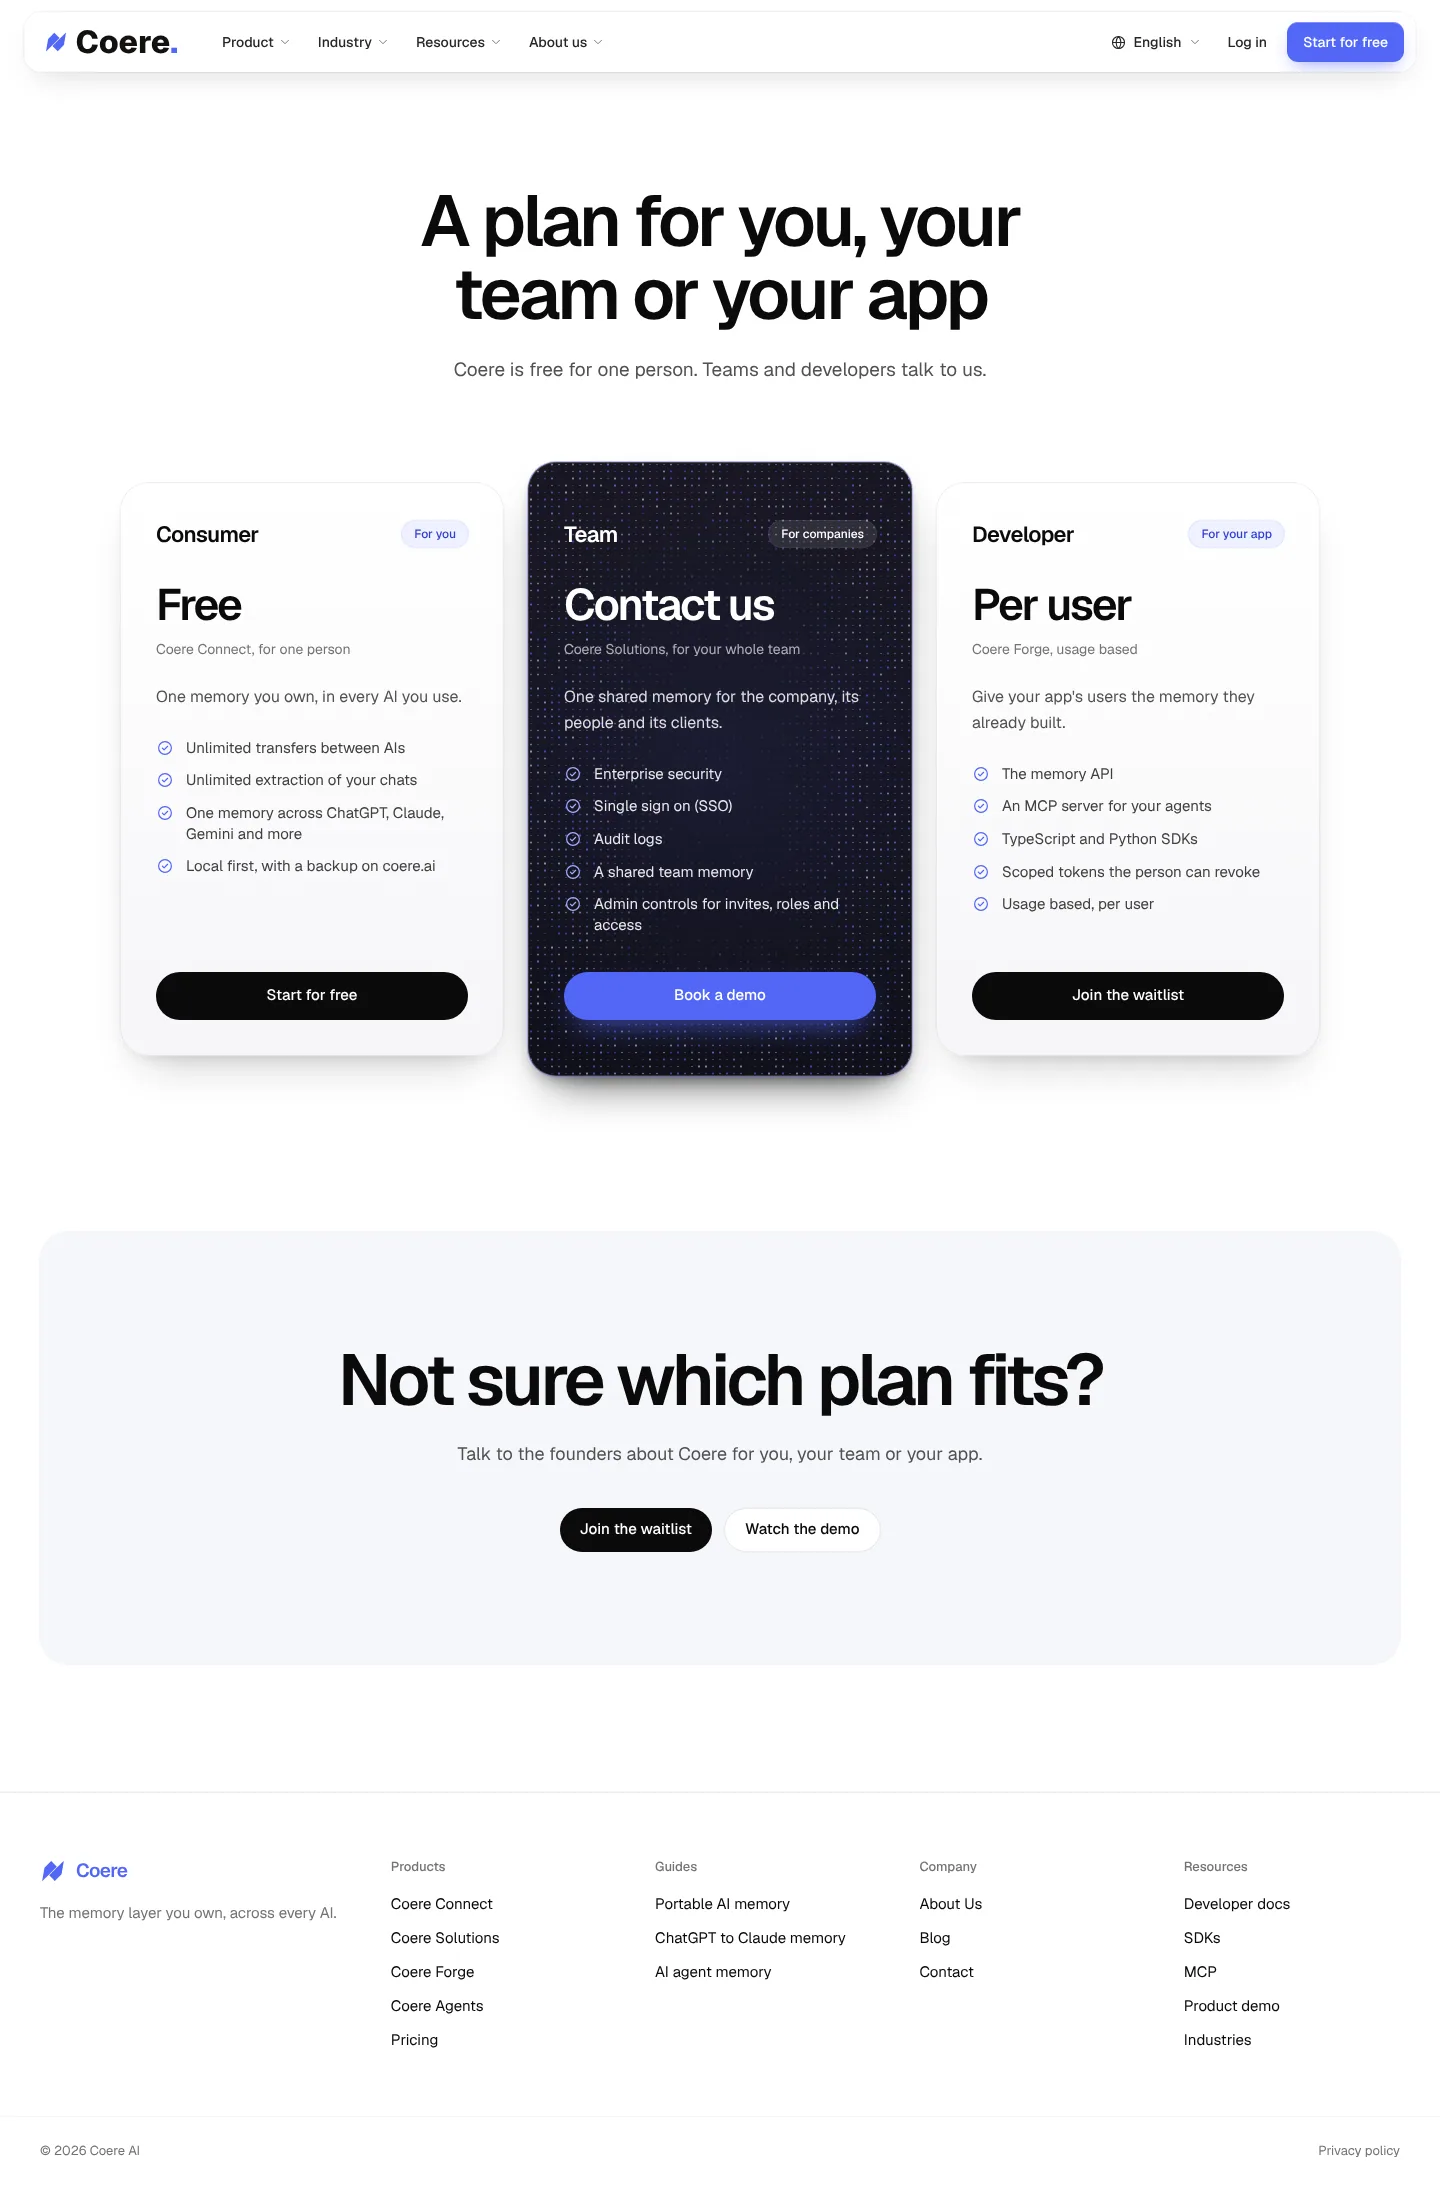
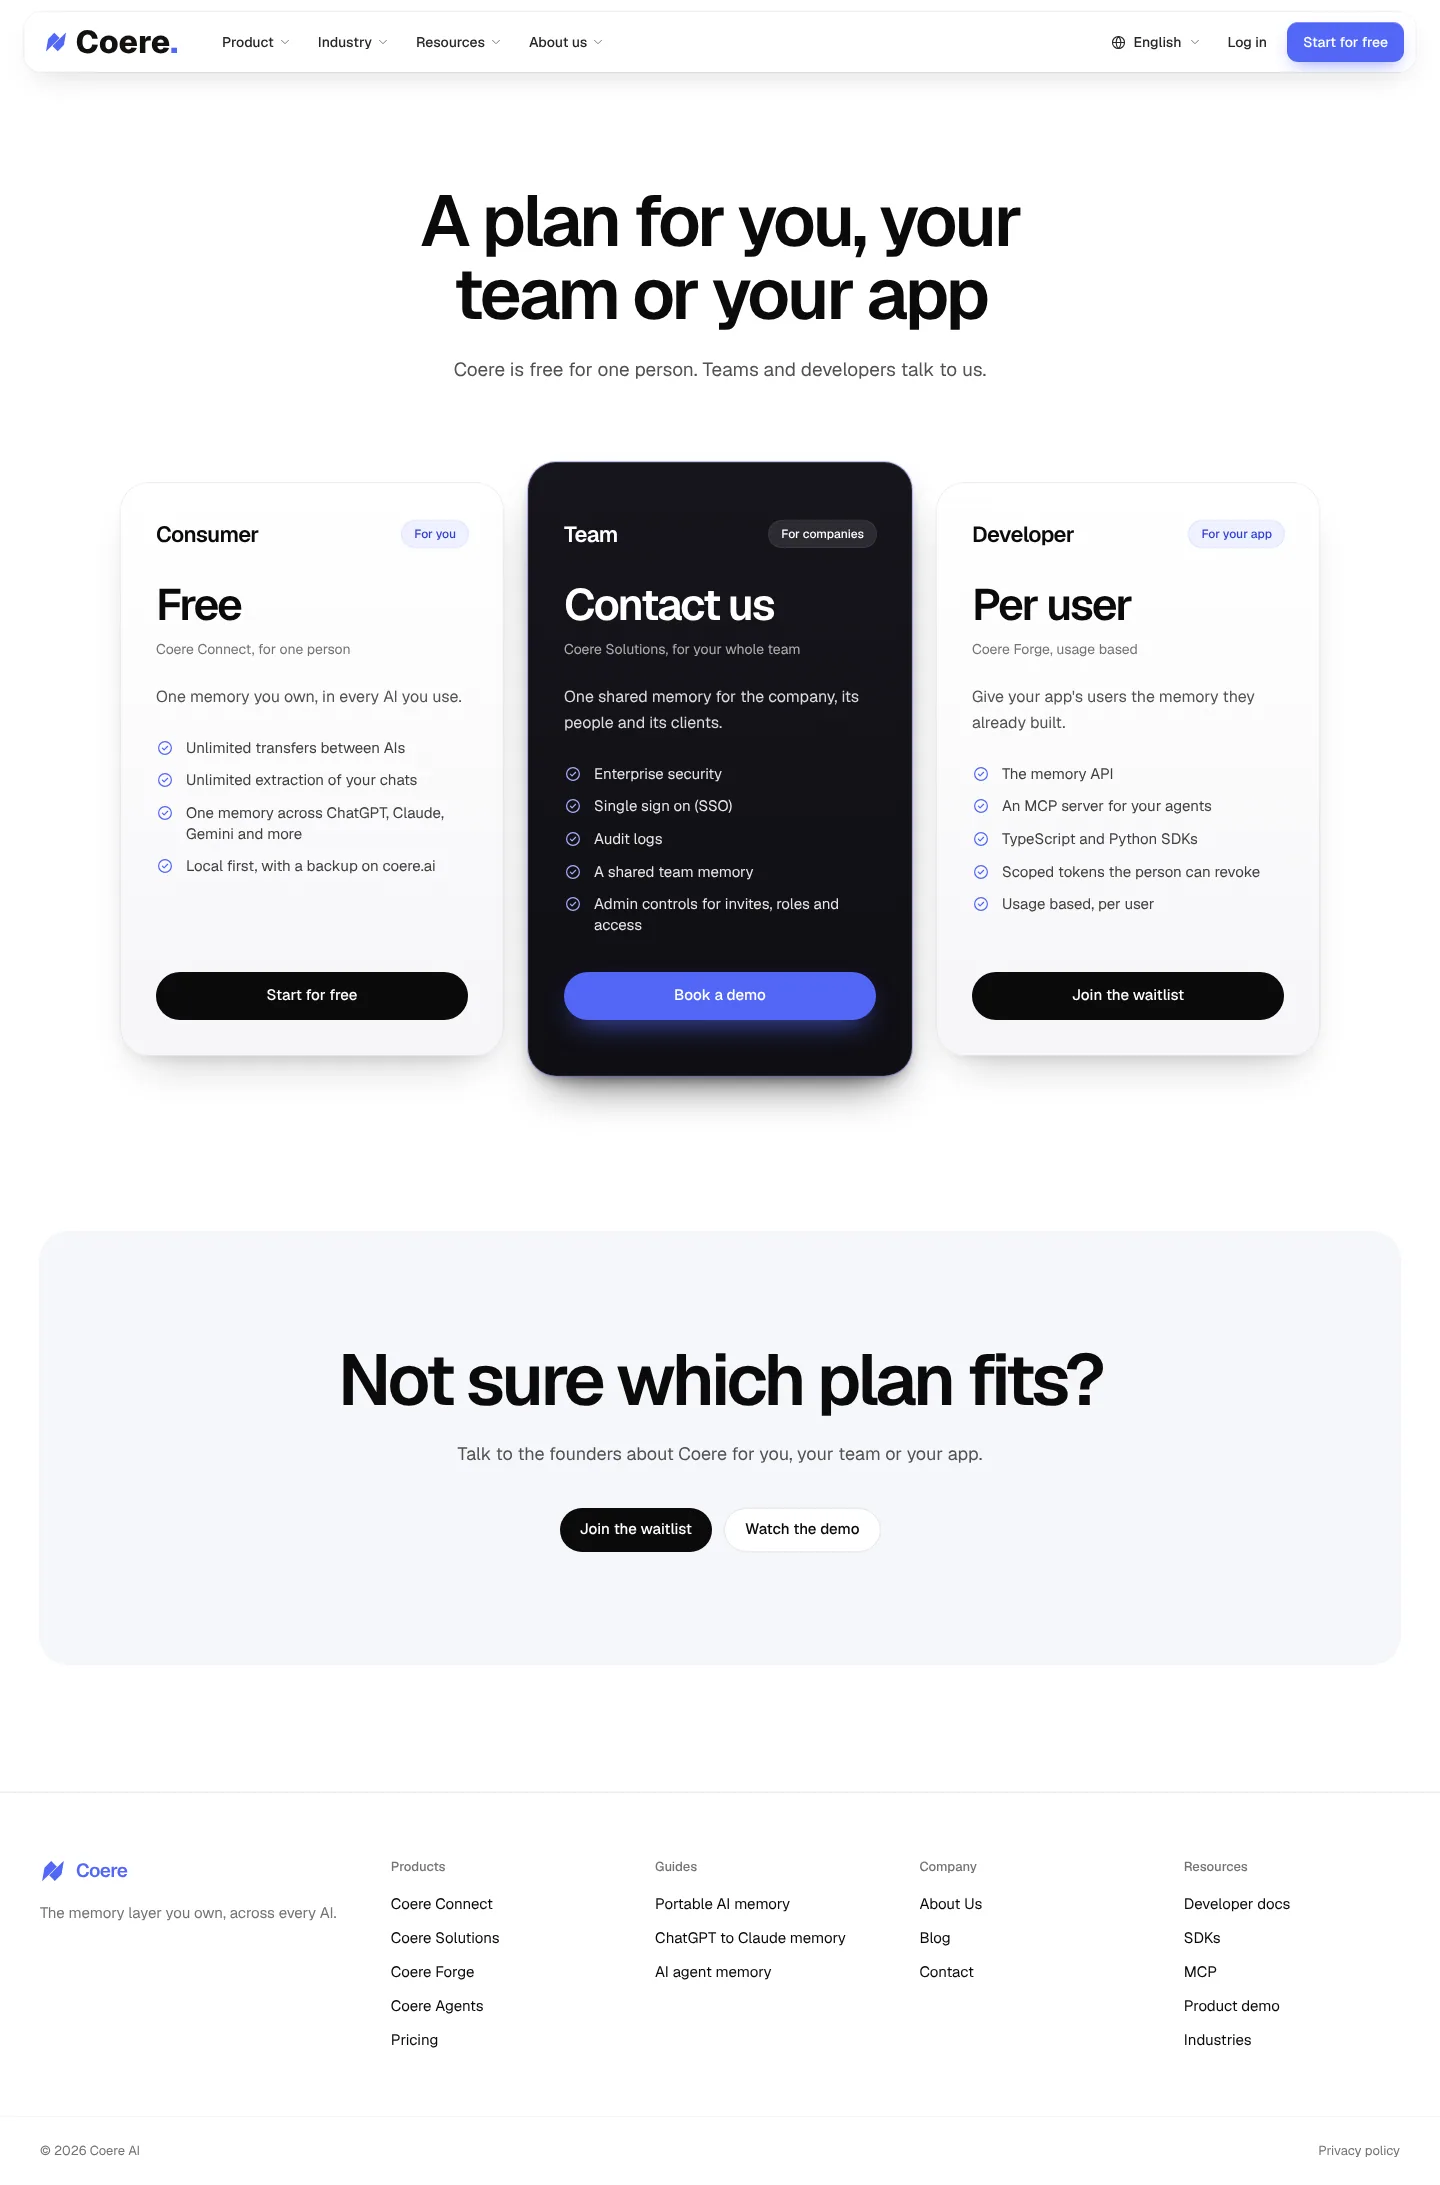
Remove the comparison table and calm the Team plan card
The owner asked to remove the "One memory that knows you everywhere"
table from the site, so it is gone from the home page and the portable
memory guide, with its data and pictures. The Team plan's pixels now
light only on hover, like the other two plans.

Claude-Session: https://claude.ai/code/session_01Ur6uqNCXa3ecJ23BnM9D9o

Changed region(s): [[0.4688, 0.3112, 0.5312, 0.3735], [0.375, 0.3112, 0.4375, 0.4046], [0.5625, 0.3112, 0.5938, 0.3735]]

diff --git a/src/app/(site)/page.tsx b/src/app/(site)/page.tsx
@@ -5,7 +5,6 @@ import { homeFaqs } from "@/site/content/faqs";
 import { homeSeo } from "@/site/content/seo";
 import { BlogSection } from "@/site/home/blog-section";
 import { ClosingCta } from "@/site/home/closing-cta";
-import { CompareTable } from "@/site/home/compare-table";
 import { ConnectSection } from "@/site/home/connect-section";
 import { DemoSection } from "@/site/home/demo-section";
 import { ForgeSection } from "@/site/home/forge-section";
@@ -21,7 +20,7 @@ export const metadata: Metadata = pageMetadata({ ...homeSeo, path: "/" });
 /**
  * The home page: the hero with its three pictures, every AI Coere works
  * with, the full demo, what Coere solves, one part per product, each with
- * its own layout and a way to its page, how Coere compares, the plans,
+ * its own layout and a way to its page, the plans,
  * the questions people ask first, the newest posts and the last word.
  */
 export default function HomePage() {
@@ -36,7 +35,6 @@ export default function HomePage() {
       <ConnectSection />
       <SolutionsSection />
       <ForgeSection />
-      <CompareTable />
       <PricingSection />
       <FaqSection faqs={homeFaqs} title="What people ask about Coere" look="soft" />
       <BlogSection />

diff --git a/src/app/(site)/portable-ai-memory/page.tsx b/src/app/(site)/portable-ai-memory/page.tsx
@@ -8,7 +8,6 @@ import { guideBySlug, portable } from "@/site/content/guides";
 import { contactHref, contactLabel } from "@/site/content/navigation";
 import { AnswerSection, RelatedSection, TodaySection, WorkflowSection } from "@/site/guides/guide-blocks";
 import { ClosingCta } from "@/site/home/closing-cta";
-import { CompareTable } from "@/site/home/compare-table";
 import { AiTiles } from "@/site/products/ai-tiles";
 import { guideGraph, JsonLd } from "@/site/seo/json-ld";
 import { FilmFrame } from "@/site/ui/film-frame";
@@ -50,7 +49,6 @@ export default function PortableAiMemoryPage() {
         background={backgrounds.ribbons}
         link={{ href: "/products/connect", label: "Explore Coere Connect" }}
       />
-      <CompareTable />
       <TodaySection title="What Coere supports today" items={portable.today} status="Coere is in pre-launch, and the waitlist is open. Here is what Coere Connect does now, as the films on this site show it." />
       <FaqSection faqs={portable.faqs} title="Portable AI memory, answered" />
       <RelatedSection

diff --git a/src/site/pricing/plan-card.tsx b/src/site/pricing/plan-card.tsx
@@ -12,8 +12,8 @@ const DARK = ["#7f8bfa", "#5267f7", "#c6cfff"];
 /**
  * One plan on a PixelCard. The pixels light up from the edges on hover,
  * and fade toward the middle, so the words stay readable over them. The
- * featured plan sits on near black with its pixels always on, so it stands
- * out from the two beside it. The card itself takes no focus; its button
+ * featured plan sits on near black, so it stands out from the two beside
+ * it, and its pixels light on hover like the others. The card itself takes no focus; its button
  * does, and lights the pixels too.
  */
 export function PlanCard({ plan }: { plan: Plan }) {
@@ -30,7 +30,7 @@ export function PlanCard({ plan }: { plan: Plan }) {
       speed={featured ? 30 : 25}
       fade={0.85}
       opacity={featured ? 0.75 : 0.9}
-      trigger={featured ? "always" : "hover"}
+      trigger="hover"
       glowColor="#5267f7"
       radius={28}
       noFocus

diff --git a/src/lib/sections.ts b/src/lib/sections.ts
@@ -27,7 +27,6 @@ export const SECTIONS: readonly SectionMeta[] = [
   { id: "connect", label: "Coere Connect", blurb: "One memory across every AI." },
   { id: "solutions", label: "Coere Solutions", blurb: "One memory for the whole company." },
   { id: "forge", label: "Coere Forge", blurb: "Memory for the apps developers build." },
-  { id: "compare", label: "How Coere compares", blurb: "Coere against the memory each AI keeps." },
 ] as const;
 
 /**

diff --git a/docs/screenshots/site/README.md b/docs/screenshots/site/README.md
@@ -19,7 +19,7 @@ Maya Collins, made up for these pictures.
 | <img src="home-solves.webp" alt="Every AI starts from zero, with the switch on Without Coere: three drawn chats where context is lost, switching AI to AI, a new chat and one long chat" /><br /><sub>What Coere solves on Without Coere, each scene on the still it settles on</sub> | <img src="home-solves-coere.webp" alt="Memory that follows the person, not the app, with the switch on With Coere: the same three chats, each with Coere's line over the box saying what it added" /><br /><sub>The same scenes on With Coere, each with the line Coere adds</sub> |
 | <img src="home-demo.webp" alt="The product film in its frame, on Cori asking which AI chats you use, with the chapters Onboarding, Import, Memory and Features under it" /><br /><sub>The product film, with its chapters</sub> | <img src="home-connect.webp" alt="One memory across every AI, with a ChatGPT window beside four features: Context added as you type, Your memory graph, Import every chat and Coere Actions" /><br /><sub>Coere Connect: one memory across every AI</sub> |
 | <img src="home-solutions.webp" alt="One memory for the whole company, with the company memory graph beside it and Try it free" /><br /><sub>Coere Solutions: one memory for the whole company</sub> | <img src="home-forge.webp" alt="Your app knows its users from day one, with the Apps page beside it and Join the waitlist" /><br /><sub>Coere Forge: memory for the apps developers build</sub> |
-| <img src="home-compare.webp" alt="One memory that knows you everywhere: a table of Coere Connect against the memory ChatGPT, Claude, Gemini and OpenMemory keep" /><br /><sub>How Coere compares</sub> | <img src="phone-home.webp" width="195" alt="The whole home page at phone width" /><br /><sub>The home page at 390 wide</sub> |
+| <img src="pricing.webp" alt="The three plans: Consumer free, Team and Developer" /><br /><sub>The plans, also on the home page</sub> | <img src="phone-home.webp" width="195" alt="The whole home page at phone width" /><br /><sub>The home page at 390 wide</sub> |
 
 The whole page: [home.webp](home.webp).
 

diff --git a/README.md b/README.md
@@ -60,9 +60,9 @@ pictures: [the site](docs/screenshots/site/README.md),
       <sub>Each product has its part of the home page, Coere Connect first.</sub>
     </td>
     <td width="50%">
-      <img src="docs/screenshots/site/home-compare.webp" alt="A table of Coere Connect against the memory ChatGPT, Claude, Gemini and OpenMemory keep" />
+      <img src="docs/screenshots/site/home-ais.webp" alt="Transfer memory across every AI: the AI logos moving past in a line that fades at both edges" />
       <br />
-      <sub>How Coere compares with the memory each AI keeps.</sub>
+      <sub>Every AI Coere works with, under the hero.</sub>
     </td>
   </tr>
   <tr>
